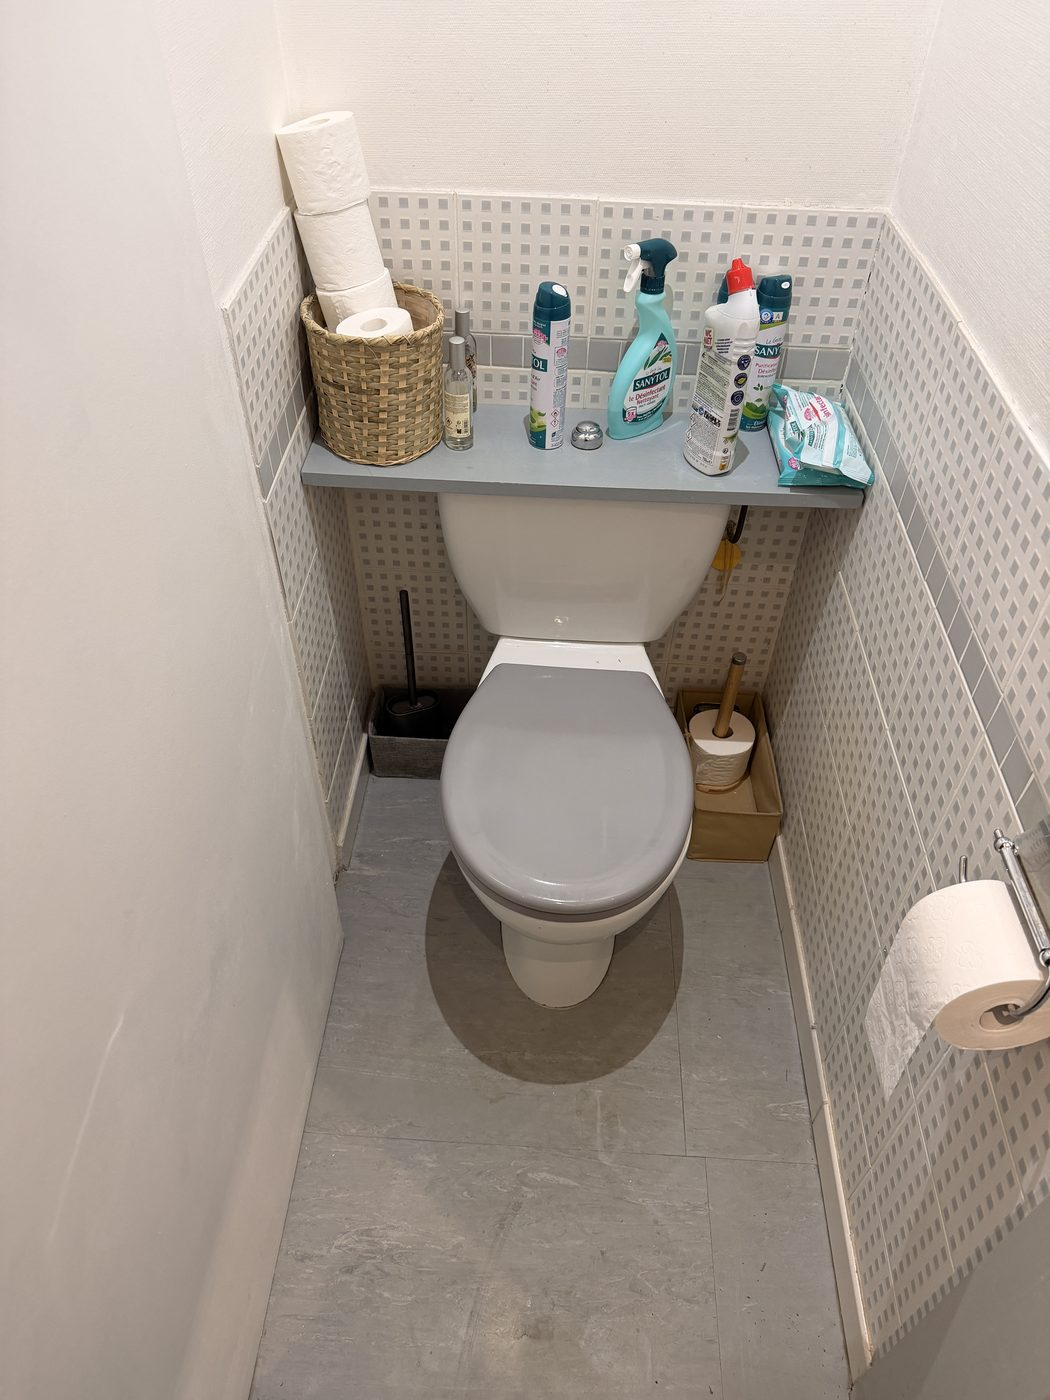
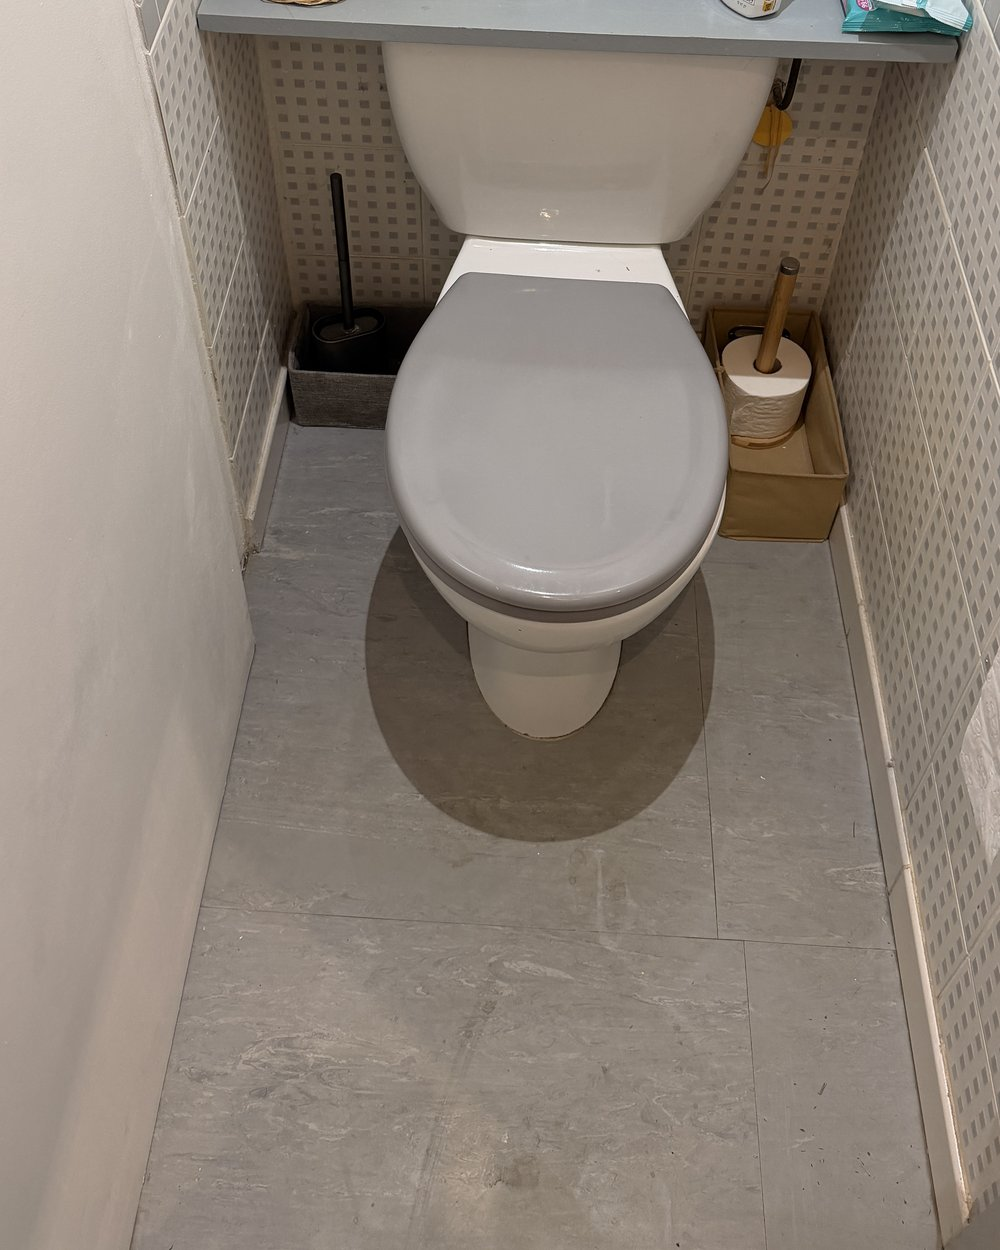
fix: recadrage avant/apres (cuvette centree, sol mis en avant) + ratio 4:5

diff --git a/components/BeforeAfter.tsx b/components/BeforeAfter.tsx
@@ -24,7 +24,7 @@ export default function BeforeAfter() {
         .ba2-eyebrow { font-size: 11px; font-weight: 700; letter-spacing: .2em; text-transform: uppercase; color: var(--gold-deep); margin-bottom: 14px; }
         .ba2-title { font-family: 'Bodoni Moda', serif; font-size: clamp(26px, 3vw, 38px); color: var(--ink); margin-bottom: 12px; line-height: 1.15; }
         .ba2-sub { font-size: 15px; color: var(--ink-soft); line-height: 1.7; max-width: 540px; margin: 0 auto 36px; }
-        .ba2-frame { position: relative; width: 100%; max-width: 430px; margin: 0 auto; aspect-ratio: 3 / 4; border-radius: 3px; overflow: hidden; border: 1px solid rgba(26,26,24,.12); touch-action: none; cursor: ew-resize; user-select: none; box-shadow: 0 18px 50px rgba(0,0,0,.14); }
+        .ba2-frame { position: relative; width: 100%; max-width: 430px; margin: 0 auto; aspect-ratio: 4 / 5; border-radius: 3px; overflow: hidden; border: 1px solid rgba(26,26,24,.12); touch-action: none; cursor: ew-resize; user-select: none; box-shadow: 0 18px 50px rgba(0,0,0,.14); }
         .ba2-frame:focus-visible { outline: 2px solid var(--gold); outline-offset: 3px; }
         .ba2-layer { position: absolute; inset: 0; }
         .ba2-badge { position: absolute; top: 12px; font-size: 11px; font-weight: 700; letter-spacing: .12em; text-transform: uppercase; padding: 5px 11px; border-radius: 3px; z-index: 3; }